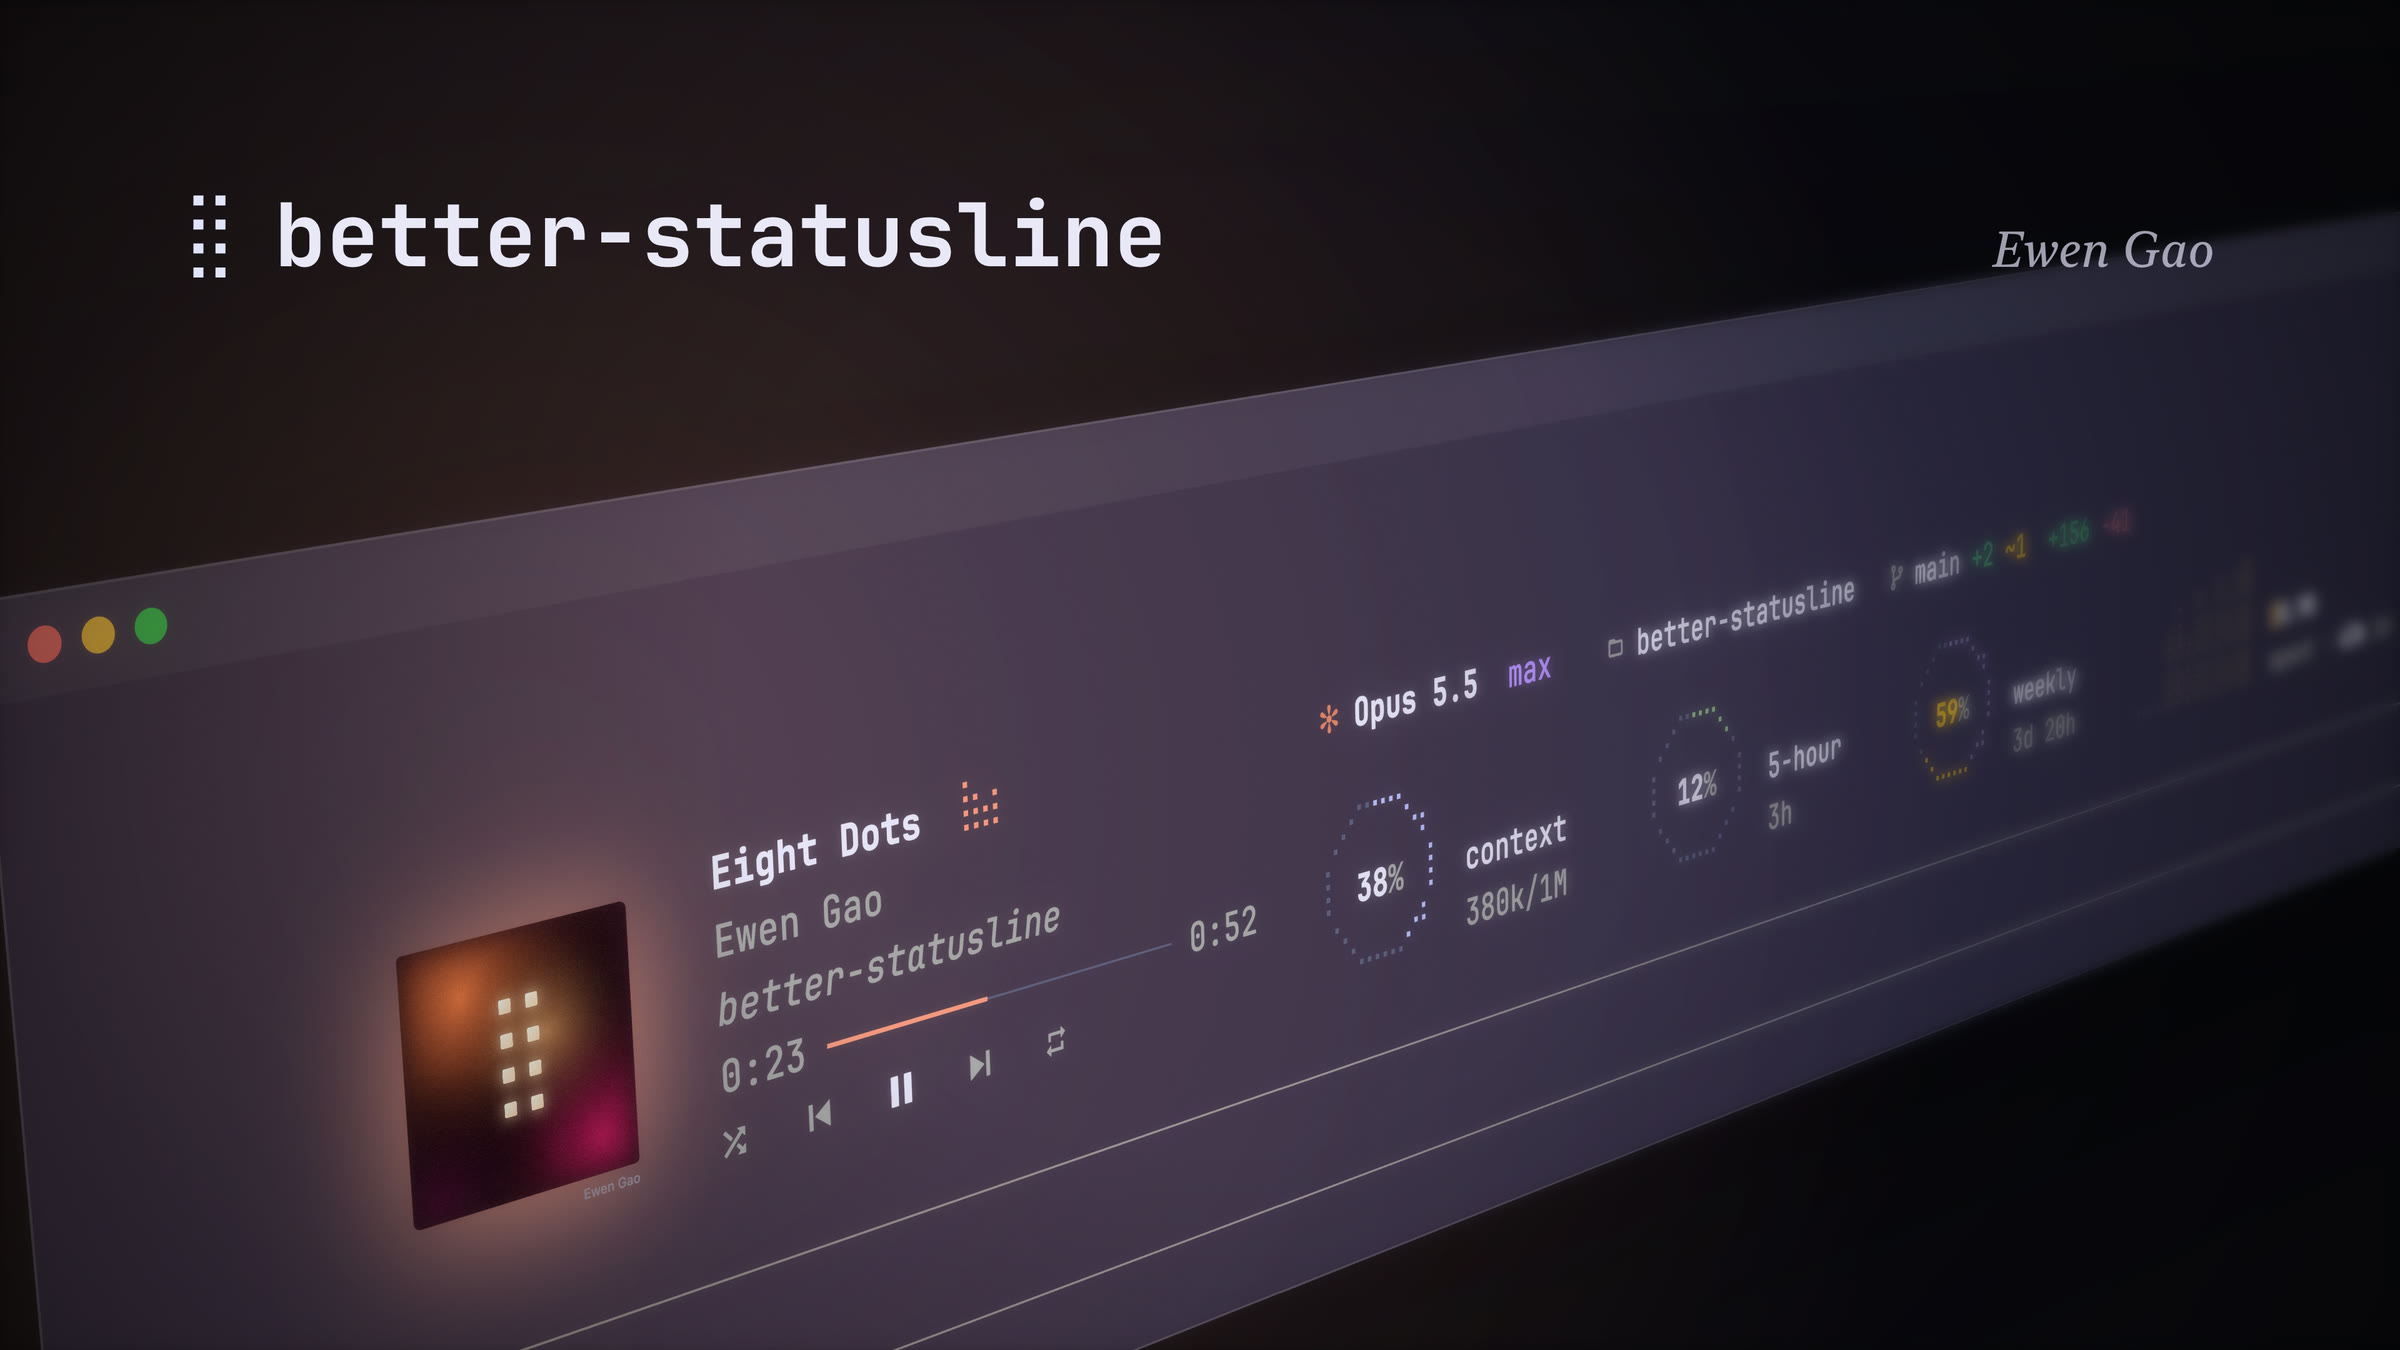
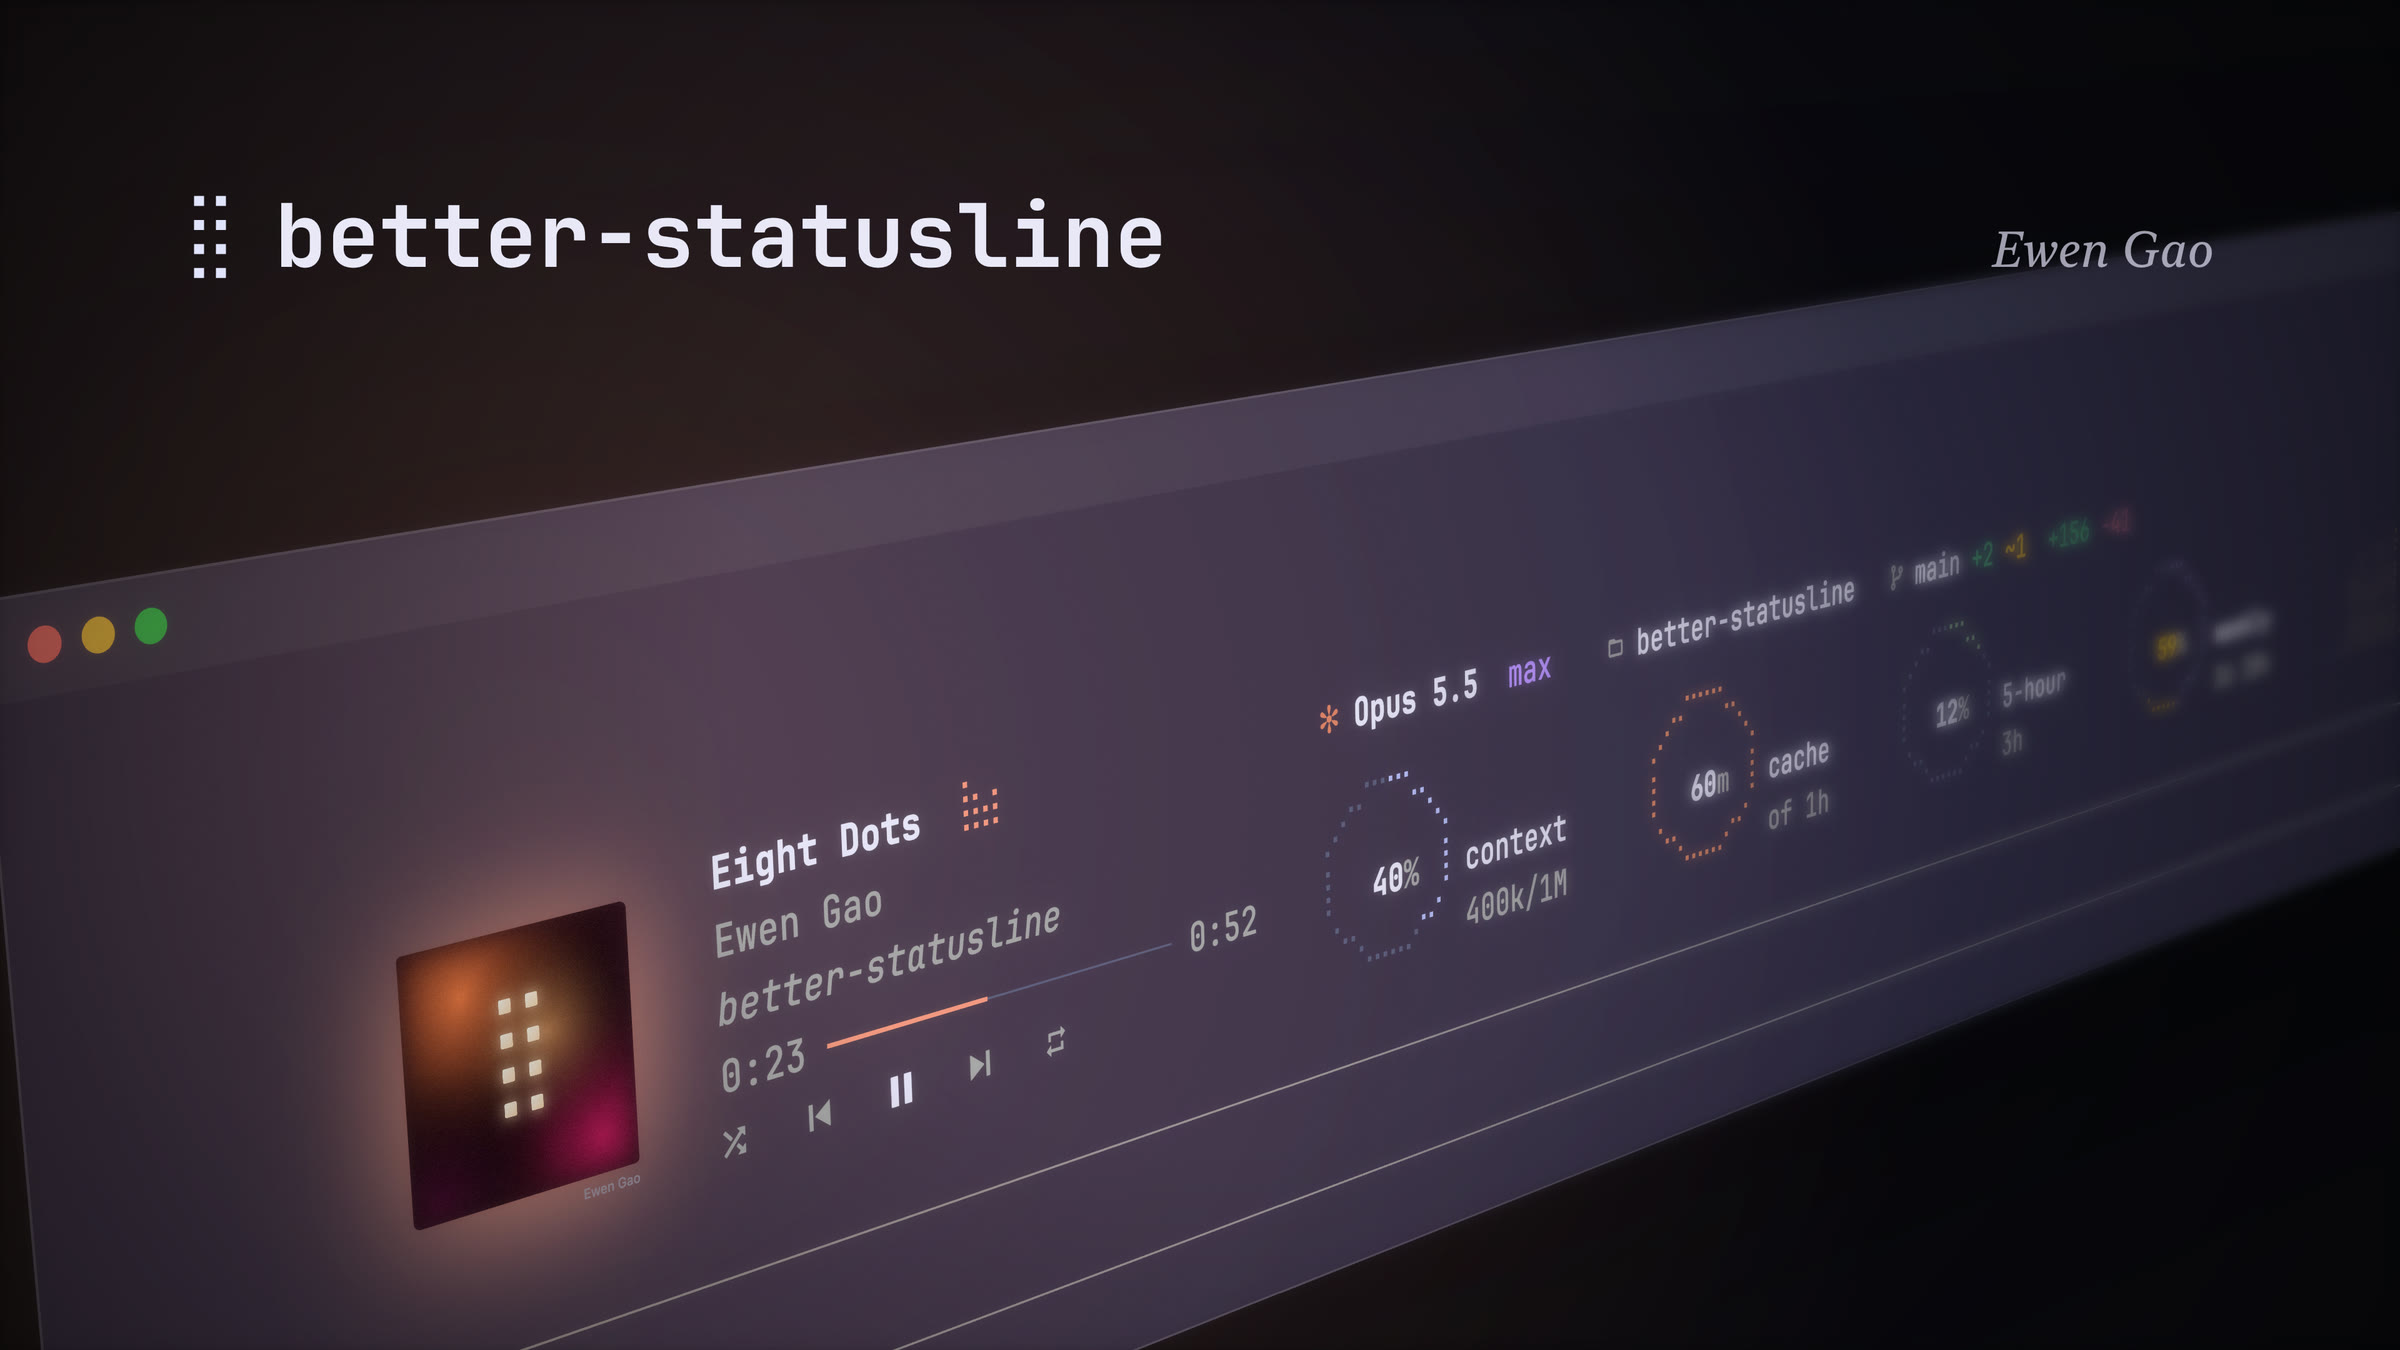
better-statusline 0.7.1: the README around the new film
The film now plays in the README by itself, as a silent loop of the
whole of it, with the 1080p and 4K files in the release for its sound.
Twelve stills from it stand beside the words for each part of the band,
and the poster and the picture of the band are drawn afresh.

diff --git a/README.md b/README.md
@@ -1,5 +1,5 @@
 <p align="center">
-  <img src="docs/poster.jpg" width="100%" alt="better-statusline, by Ewen Gao: the band above the prompt, a music card beside three dot-matrix rings">
+  <img src="docs/poster.jpg" width="100%" alt="better-statusline, by Ewen Gao: the band above the prompt, a music card beside the rings of context, cache and the limits">
 </p>
 
 <h1 align="center">better-statusline</h1>
@@ -11,7 +11,7 @@
 
 <p align="center">
   <img src="https://img.shields.io/badge/Claude_Code-2.1.289+-d97757?style=flat-square&labelColor=242137" alt="Claude Code 2.1.289 or later">
-  <img src="https://img.shields.io/badge/version-0.7.0-b1b9f9?style=flat-square&labelColor=242137" alt="Version 0.7.0">
+  <img src="https://img.shields.io/badge/version-0.7.1-b1b9f9?style=flat-square&labelColor=242137" alt="Version 0.7.1">
   <img src="https://img.shields.io/badge/license-MIT-91c882?style=flat-square&labelColor=242137" alt="MIT license">
 </p>
 
@@ -24,19 +24,44 @@
 
 ## The film
 
-https://github.com/user-attachments/assets/e9eac5e8-ed5a-4eeb-a34d-b09a338ef155
+<p align="center">
+  <img src="docs/film.webp" width="100%" alt="The film: a dot becomes a braille cell, a circle is snapped to dots, the rings fill, the music card takes its colour from its cover, and the whole band folds and turns from dark to light">
+</p>
 
-<p align="center"><sub>Fifty-two seconds, with sound. All of it is drawn in code: the picture, the two covers and the score.</sub></p>
+<p align="center">
+  <sub>
+    Fifty-two seconds. All of it is drawn in code: the picture, the two covers and the score.<br>
+    With sound:
+    <a href="https://github.com/Autumn1337/better-statusline/releases/download/v0.7.1/better-statusline-1080p.mp4">1080p</a> ·
+    <a href="https://github.com/Autumn1337/better-statusline/releases/download/v0.7.1/better-statusline-4k.mp4">4K</a>
+  </sub>
+</p>
 
 ## What it shows
 
-![The band as it stands today: the music card, then the header over the rings of context, cache, 5-hour and weekly, and the bars of spend](docs/band.png)
+![The band as it stands: the music card, then the header over the rings of context, cache, 5-hour and weekly, and the bars of spend](docs/band.png)
+
+### Drawn in dots
+
+<p align="center">
+  <img src="docs/stills/01-eight-dots.jpg" width="49%" alt="A braille cell: eight dots, two across and four down">
+  <img src="docs/stills/02-true-circle.jpg" width="49%" alt="A circle laid over the terminal's grid of dots, each point of it snapped to the nearest dot">
+</p>
+
+A braille cell is eight dots. Every drawing here is made of them: a ring is a true circle, found on the screen and snapped dot by dot to the terminal's grid.
 
 ### Rings
 
-<p align="center"><img src="docs/rings.webp" width="760" alt="A ring forms out of dots, fills, and is joined by two more"></p>
+<p align="center">
+  <img src="docs/stills/03-context.jpg" width="49%" alt="The context ring: 26%, 259k of 1M">
+  <img src="docs/stills/04-cache.jpg" width="49%" alt="The cache ring: four minutes left of an hour">
+</p>
+<p align="center">
+  <img src="docs/stills/05-limits.jpg" width="49%" alt="The 5-hour and weekly rings, the weekly one yellow past its pace">
+  <img src="docs/stills/06-rings.jpg" width="49%" alt="The four rings in a row: context, cache, 5-hour, weekly">
+</p>
 
-A braille cell is eight dots, and every figure here is a ring of them, lit clockwise from the top.
+Each ring is lit clockwise from its top, with its figure at its heart.
 
 - **Context**: how full the window is.
 - **Cache**: the minutes left before the prompt cache goes cold, counted from the last response. An hour on a subscription inside its limits, five minutes otherwise.
@@ -46,19 +71,27 @@ Above them, a header names the model and its effort, the folder, the git branch 
 
 ### Spend
 
-<p align="center"><img src="docs/spend.webp" width="760" alt="Bars of dots rise, one for each turn, beside the session's total"></p>
+<p align="center">
+  <img src="docs/stills/07-spend.jpg" width="49%" alt="Bars of dots, one for each turn, beside the session's total and its tokens in and out">
+</p>
 
 One bar for each recent turn, beside the session's total. The bars grow by the square root of the cost, so one dear turn leaves the rest standing.
 
 ### Music
 
-<p align="center"><img src="docs/card.webp" width="760" alt="The music card: its accent is read out of the cover, then the pointer pauses the track and skips to the next"></p>
+<p align="center">
+  <img src="docs/stills/08-colour.jpg" width="49%" alt="The cover's pixels sorted by hue round a wheel, the fullest slice chosen as the card's accent">
+  <img src="docs/stills/09-card.jpg" width="49%" alt="The music card: the cover in its glow, the title, artist and album, the line and the controls, in the cover's own colour">
+</p>
 
 On macOS a card shows what Spotify or Apple Music is playing, in an accent read out of the cover. It takes the mouse: play, pause, skip, seek along the line, shuffle, repeat, and the volume at the right end of the controls.
 
-### One row, light or dark
+### The band
 
-<p align="center"><img src="docs/fold.webp" width="760" alt="The band folds into one row and opens again, then turns from dark to light"></p>
+<p align="center">
+  <img src="docs/stills/10-terminal.jpg" width="49%" alt="The whole band in a terminal window, above the prompt">
+  <img src="docs/stills/11-themes.jpg" width="49%" alt="The band turning from dark to light">
+</p>
 
 `/fold` folds the whole band into one row, and opens it again. The colours are Claude Code's own theme, so the band follows it from dark to light.
 
@@ -83,6 +116,13 @@ From the marketplace this repository carries:
 ```sh
 claude plugin marketplace add Autumn1337/better-statusline
 claude plugin install better-statusline@better-statusline
+```
+
+To take a new version later:
+
+```sh
+claude plugin marketplace update better-statusline
+claude plugin update better-statusline@better-statusline
 ```
 
 Or from a clone, for one session:
@@ -132,3 +172,7 @@ tsc -p .
 ## License
 
 MIT © Ewen Gao
+
+<p align="center">
+  <img src="docs/stills/12-name.jpg" width="49%" alt="better-statusline, Ewen Gao">
+</p>
